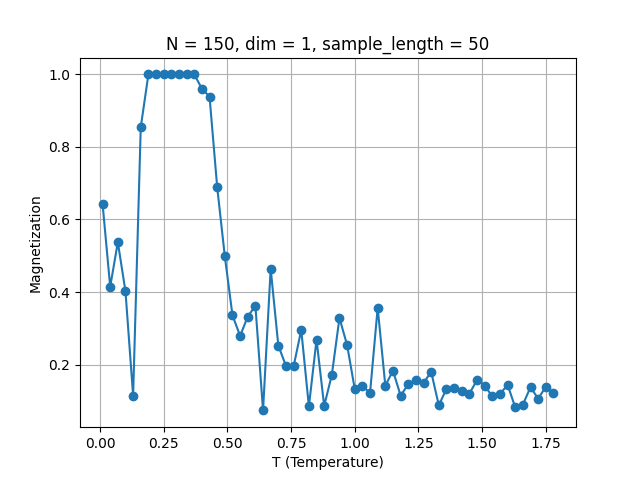
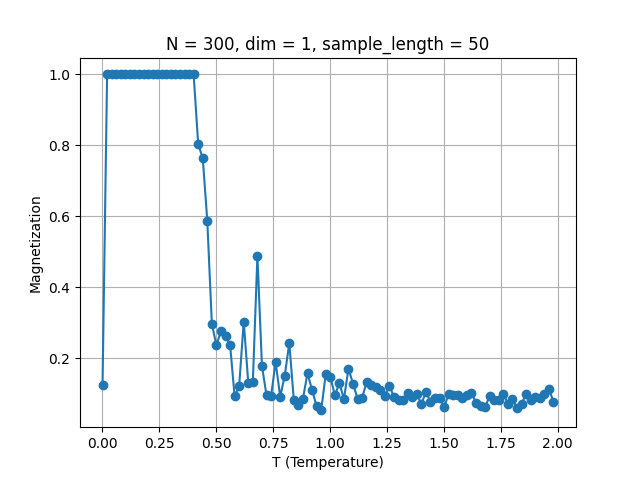
Greatly improved performances using numba

diff --git a/utils.py b/utils.py
@@ -5,27 +5,97 @@ import matplotlib.pyplot as plt
 from ising import new_random_ising
 from numba import njit
 
+ALLOW_NUMBA_CACHING = True
+
+@njit(cache = ALLOW_NUMBA_CACHING)
 def maxwell_boltzmann_statistics(epsilon, beta = 1.):
     return np.exp(- (beta * epsilon))
 
-def random_index(array):
-    '''
-    Return a random index of a multi-dimensional NumPy array as a tuple.
-    '''
+@njit(cache = ALLOW_NUMBA_CACHING)
+def _metropolis_ising_1d(model: np.ndarray, T: float, steps: int, burn_in: int = 0):
+    '''1D version of Metropolis-Hastings for Ising model (Numba-compiled).'''
+    curr_model = np.copy(model)
+    models_samples = np.empty((steps,) + curr_model.shape, dtype=curr_model.dtype)
+    N = curr_model.shape[0]
     
-    array = np.asarray(array)
+    for i in range(steps):
+        idx0 = np.random.randint(0, N)
+        spin = curr_model[idx0]
+        forward = (idx0 + 1) % N
+        backward = (idx0 - 1) % N
+        deltaE = 2.0 * spin * (curr_model[forward] + curr_model[backward])
+        
+        accept_probability = np.minimum(1.0, maxwell_boltzmann_statistics(deltaE, beta=1.0 / T))
+        if np.random.random() <= accept_probability:
+            curr_model[idx0] = -curr_model[idx0]
+        
+        models_samples[i] = curr_model
+    
+    return models_samples[burn_in:]
 
-    # Check if the array is empty or has zero dimensions
-    if array.ndim == 0:
-        raise ValueError("array must have at least one dimension")
-    if array.size == 0:
-        raise ValueError("array must not be empty")
 
-    # Generate a random index for each dimension of the array
-    return tuple(np.random.randint(0, dimension) for dimension in array.shape)
+@njit(cache = ALLOW_NUMBA_CACHING)
+def _metropolis_ising_2d(model: np.ndarray, T: float, steps: int, burn_in: int = 0):
+    '''2D version of Metropolis-Hastings for Ising model (Numba-compiled).'''
+    curr_model = np.copy(model)
+    models_samples = np.empty((steps,) + curr_model.shape, dtype=curr_model.dtype)
+    N1, N2 = curr_model.shape[0], curr_model.shape[1]
+    
+    for i in range(steps):
+        idx0 = np.random.randint(0, N1)
+        idx1 = np.random.randint(0, N2)
+        spin = curr_model[idx0, idx1]
+        
+        i_fwd = (idx0 + 1) % N1
+        i_bwd = (idx0 - 1) % N1
+        j_fwd = (idx1 + 1) % N2
+        j_bwd = (idx1 - 1) % N2
+        neighbors_sum = curr_model[i_fwd, idx1] + curr_model[i_bwd, idx1] + curr_model[idx0, j_fwd] + curr_model[idx0, j_bwd]
+        deltaE = 2.0 * spin * neighbors_sum
+        
+        accept_probability = np.minimum(1.0, maxwell_boltzmann_statistics(deltaE, beta=1.0 / T))
+        if np.random.random() <= accept_probability:
+            curr_model[idx0, idx1] = -curr_model[idx0, idx1]
+        
+        models_samples[i] = curr_model
+    
+    return models_samples[burn_in:]
 
 
-def metropolis_ising(target: callable, model: np.ndarray, steps: int, min = 0, max = 100_000, burn_in = 0, seed = 0):
+@njit(cache = ALLOW_NUMBA_CACHING)
+def _metropolis_ising_3d(model: np.ndarray, T: float, steps: int, burn_in: int = 0):
+    '''3D version of Metropolis-Hastings for Ising model (Numba-compiled).'''
+    curr_model = np.copy(model)
+    models_samples = np.empty((steps,) + curr_model.shape, dtype=curr_model.dtype)
+    N1, N2, N3 = curr_model.shape[0], curr_model.shape[1], curr_model.shape[2]
+    
+    for i in range(steps):
+        idx0 = np.random.randint(0, N1)
+        idx1 = np.random.randint(0, N2)
+        idx2 = np.random.randint(0, N3)
+        spin = curr_model[idx0, idx1, idx2]
+        
+        i_fwd = (idx0 + 1) % N1
+        i_bwd = (idx0 - 1) % N1
+        j_fwd = (idx1 + 1) % N2
+        j_bwd = (idx1 - 1) % N2
+        k_fwd = (idx2 + 1) % N3
+        k_bwd = (idx2 - 1) % N3
+        neighbors_sum = (curr_model[i_fwd, idx1, idx2] + curr_model[i_bwd, idx1, idx2] + 
+                         curr_model[idx0, j_fwd, idx2] + curr_model[idx0, j_bwd, idx2] + 
+                         curr_model[idx0, idx1, k_fwd] + curr_model[idx0, idx1, k_bwd])
+        deltaE = 2.0 * spin * neighbors_sum
+        
+        accept_probability = np.minimum(1.0, maxwell_boltzmann_statistics(deltaE, beta=1.0 / T))
+        if np.random.random() <= accept_probability:
+            curr_model[idx0, idx1, idx2] = -curr_model[idx0, idx1, idx2]
+        
+        models_samples[i] = curr_model
+    
+    return models_samples[burn_in:]
+
+
+def metropolis_ising(model: np.ndarray, T: float, steps: int, min = 0, max = 100_000, burn_in = 0, seed = 0):
     '''
     Given:
         Target probability distribution function
@@ -33,29 +103,24 @@ def metropolis_ising(target: callable, model: np.ndarray, steps: int, min = 0, m
         Number of steps to take (in the markov process)
     
     Returns:
-        Array of ising model configurations which energies are distributed as the target pdf
+        Array of ising model configurations
+        which energies are distributed as the maxwell-boltzmann pdf at temperature T.
+
+    Note:
+        This function routes to specialized Numba-compiled versions
+        based on the dimensionality of the input model for performance.
     '''
+    if seed != 0:
+        np.random.seed(seed)
     
-    curr_model = np.array(model, copy = True)
-    models_samples = np.empty((steps,) + curr_model.shape, dtype = curr_model.dtype)
-    rng = np.random.default_rng(seed)
-
-    # Generating candidate using a random spin flip (no-hasting condition satisfied)
-    for i in range(0, steps):
-
-        # Print progress every 10% of the steps if steps is large enough
-        if steps >= 1_000 and i % (steps // 10) == 0:
-            print(f"Progress: {i}/{steps} steps ({(i/steps)*100:.1f}%)")
-
-        index = random_index(curr_model)
-        deltaE = delta_energy(curr_model, index)
-
-        # Rejection process
-        accept_probability = np.minimum(1.0, target(deltaE))
-        if rng.random() <= accept_probability:
-            curr_model[index] = -curr_model[index]
-
-        models_samples[i] = curr_model
+    if model.ndim == 1:
+        return _metropolis_ising_1d(model, T, steps, burn_in)
+    elif model.ndim == 2:
+        return _metropolis_ising_2d(model, T, steps, burn_in)
+    elif model.ndim == 3:
+        return _metropolis_ising_3d(model, T, steps, burn_in)
+    else:
+        raise ValueError("metropolis_ising supports 1D, 2D, and 3D models only")
 
 
     return models_samples[burn_in:]
@@ -67,6 +132,7 @@ def metropolis_ising(target: callable, model: np.ndarray, steps: int, min = 0, m
 
 # model = ndarray of spins, J = 1 for simplicity everywhere
 
+@njit(cache = ALLOW_NUMBA_CACHING)
 def energy(model: np.ndarray) -> float:
     '''
     Given an Ising model, compute its energy.
@@ -78,7 +144,7 @@ def energy(model: np.ndarray) -> float:
     
     return interaction_energy
 
-@njit(cache=True)
+@njit(cache = ALLOW_NUMBA_CACHING)
 def _delta_energy_1d(model: np.ndarray, index: int) -> float:
     '''Delta energy for 1D lattice (Numba-compiled).'''
     N = model.shape[0]
@@ -88,10 +154,11 @@ def _delta_energy_1d(model: np.ndarray, index: int) -> float:
     return 2.0 * spin * (model[forward] + model[backward])
 
 
-@njit(cache=True)
+@njit(cache = ALLOW_NUMBA_CACHING)
 def _delta_energy_2d(model: np.ndarray, i: int, j: int) -> float:
     '''Delta energy for 2D lattice (Numba-compiled).'''
-    N1, N2 = model.shape
+    N1 = model.shape[0]
+    N2 = model.shape[1]
     spin = model[i, j]
     
     i_fwd = (i + 1) % N1
@@ -103,10 +170,12 @@ def _delta_energy_2d(model: np.ndarray, i: int, j: int) -> float:
     return 2.0 * spin * neighbors_sum
 
 
-@njit(cache=True)
+@njit(cache = ALLOW_NUMBA_CACHING)
 def _delta_energy_3d(model: np.ndarray, i: int, j: int, k: int) -> float:
     '''Delta energy for 3D lattice (Numba-compiled).'''
-    N1, N2, N3 = model.shape
+    N1 = model.shape[0]
+    N2 = model.shape[1]
+    N3 = model.shape[2]
     spin = model[i, j, k]
     
     i_fwd = (i + 1) % N1
@@ -127,6 +196,7 @@ def delta_energy(model: np.ndarray, index: tuple) -> float:
     Given an Ising model and a spin flip index, compute the change in energy.
     Routes to specialized Numba-compiled versions based on dimensionality.
     '''
+    
     if not isinstance(index, tuple):
         index = (index,)
     
@@ -147,7 +217,7 @@ def delta_energy(model: np.ndarray, index: tuple) -> float:
         return 2.0 * E_local
 
 
-@njit(cache = True)
+@njit(cache = ALLOW_NUMBA_CACHING)
 def magnetization(model: np.ndarray) -> float:
     '''
     Given an Ising model, compute its magnetization.
@@ -162,7 +232,7 @@ if __name__ == "__main__":
     np.random.seed(0)
     m1 = new_random_ising((1000, 1001))
     m2 = np.copy(m1)
-    idx = random_index(m1)
+    idx = tuple(np.random.randint(0, m1.shape[dim]) for dim in range(m1.ndim))
     m2[idx] = - m2[idx]
     
     print("Energy of m1:", energy(m1))

diff --git a/main.py b/main.py
@@ -14,7 +14,7 @@ def anim_mcmc_1D():
     steps = int(np.power(N, 1.5))
     fps = steps / 10
 
-    models = metropolis_ising(maxwell_boltzmann_statistics, m, steps = steps, burn_in = 0)
+    models = metropolis_ising(m, T = 1.0, steps = steps, burn_in = 0)
     print("MCMC completed.")
 
     animate(models, fps = fps, filename = 'tmp.gif')
@@ -27,7 +27,7 @@ def anim_mcmc_2D():
     steps = 2 * N * N
     fps = steps / 10
 
-    models = metropolis_ising(maxwell_boltzmann_statistics, m, steps = steps, burn_in = 0)
+    models = metropolis_ising(m, T = 1.0, steps = steps, burn_in = 0)
     
     print("MCMC completed.")
     if steps >= 500:
@@ -35,17 +35,17 @@ def anim_mcmc_2D():
     animate(models, fps = len(models), filename = 'tmp.gif')
 
 
-def mcmc_sampling(N = 20, dim = 2, beta = .3, sample_length = 10, initial_model = None, seed = 0):
+def mcmc_sampling(N = 20, dim = 2, T = 1.0, sample_length = 10, initial_model = None, seed = 0):
     '''
     Samples N-dimensional Ising states using MCMC with the Metropolis algorithm.
     Parameters:
     - N: The size of the Ising model (N x N for 2D)
     - dim: The dimensionality of the Ising model
-    - beta: The inverse temperature (K is set to 1 for simplicity)
+    - T: The temperature (K is set to 1 for simplicity)
     - sample_length: The number of samples to collect after burn-in
     - burn_in and thin are functions of the size of the model.
     '''
-    # Good results with N = 20, beta = .3
+    # Good results with N = 20, T = 1.0
     if initial_model is None:
         np.random.seed(seed)
         m = new_random_ising(tuple([N] * dim))
@@ -55,9 +55,7 @@ def mcmc_sampling(N = 20, dim = 2, beta = .3, sample_length = 10, initial_model 
     burn_in = int(np.power(N, dim + 1))
     thin = int(np.power(N, dim))
 
-    mbs = lambda epsilon: maxwell_boltzmann_statistics(epsilon, beta = beta)
-
-    models = metropolis_ising(mbs, m, steps = steps, burn_in = burn_in, seed = seed)
+    models = metropolis_ising(m, T = T, steps = steps, burn_in = burn_in, seed = seed)
 
     # Thinning
     models = models[::thin]
@@ -73,22 +71,23 @@ def magnetization_graph():
     '''
 
     N = 20
-    dim = 2
-    sample_length = 50
+    dim = 3
+    sample_length = 20
 
-    temps = np.arange(.01, 5.0, .07)
+    temps = np.arange(.01, 7.0, .12)
     magns = np.zeros_like(temps)
     current_model = None
     for i, t in enumerate(temps):
         models = mcmc_sampling(
             N = N,
             dim = dim,
-            beta = 1 / t,
+            T = t,
             sample_length = sample_length,
             initial_model = current_model,
         )
         current_model = models[-1]
         magns[i] = np.mean([magnetization(model) for model in models])
+        print(f"Computed {(i + 1) / len(temps) * 100:.1f}%")
     
     plt.plot(temps, magns, marker = 'o')
     plt.xlabel('T (Temperature)')
@@ -99,7 +98,7 @@ def magnetization_graph():
 
 def main():
     start = time.perf_counter()
-    
+
     # anim_mcmc_1D()
     # anim_mcmc_2D()
 